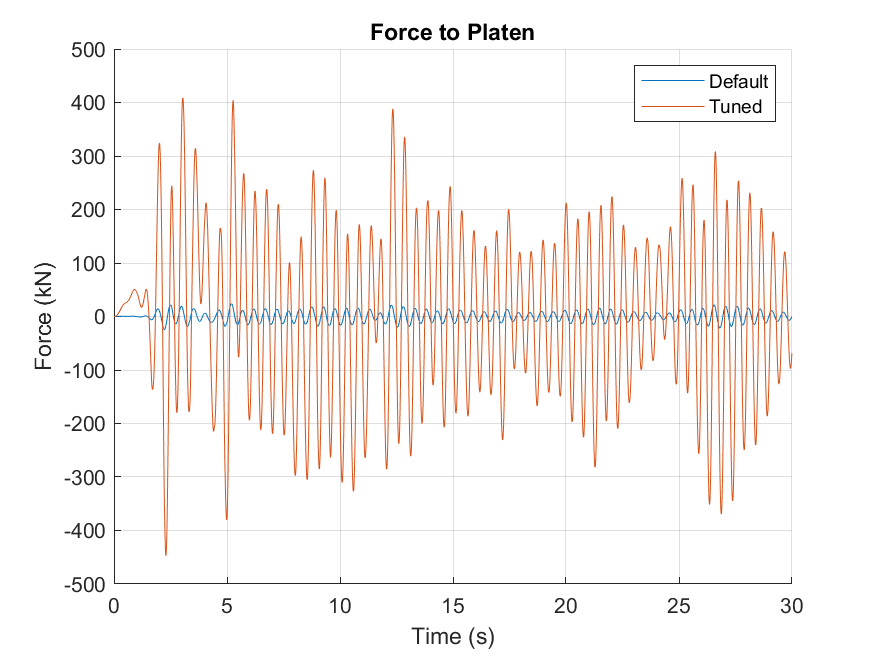
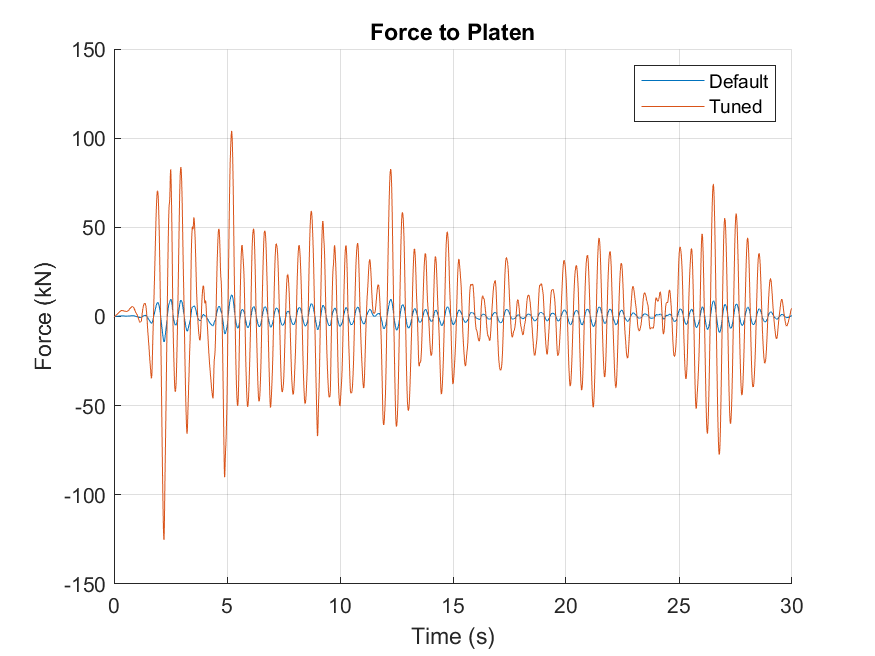
commit

diff --git a/Report/ss_matrix.tex b/Report/ss_matrix.tex
@@ -1,0 +1,73 @@
+\begin{align}
+\begin{bmatrix} 
+    \dot{x}_{sv} \\[6pt]
+    \dot{Q}_t \\[6pt]
+    \dot{P}_L \\[6pt]
+    \dot{F}_p \\[6pt]
+    \dot{x}_T \\[6pt]
+    \dot{x}_1 \\[6pt]
+    \dot{x}_2 \\[6pt]
+    \ddot{x}_T \\[6pt]
+    \ddot{x}_1 \\[6pt]
+    \ddot{x}_2 
+\end{bmatrix} =
+\begin{bmatrix}
+    -\frac{1}{T_{sv}} & 0 & 0 & 0 & 0 & 0 & 0 & 0 & 0 & 0\\[6pt]
+    -\frac{k_q}{T_{sv}} - \frac{k_c k_q k_q}{A^2} & 0 & \frac{k_c k_h}{A^2} & 0 & 0 & 0 & 0 & \frac{k_c k_h}{A} & 0 & 0 \\[6pt]
+    \frac{k_h k_q}{A^2} & 0 & -\frac{k_h}{A^2} & 0 & 0 & 0 & 0 & \frac{ k_h}{A} & 0 & 0 \\[6pt]
+    \frac{k_h k_q}{A} & 0 & -\frac{k_h}{A} & 0 & 0 & 0 & 0 & k_h & 0 & 0 \\[6pt]
+  0 &  0 & 0 & 0              & 0 & 0 & 0 & 0 & 0 &   \\[6pt]
+  0 &  0 & 0 & 0              & 0 & 0 & 0 & 0 & 0 & I &   \\[6pt]
+  0 &  0 & 0 & 0              & 0 & 0 & 0 & 0 & 0 &   \\[6pt]
+  0 &  0 & 0 & \frac{1}{m_T}  & 0 & 0 & 0 & 0 & 0 &   \\[6pt]
+  0 &  0 & 0 &              0 & 0 & 0 & -M^{-1}\cdot K  0 & 0 & 0 & -M^{-1}\cdot C  0 &   \\[6pt]
+  0 &  0 & 0 &              0 & 0 & 0 & 0 & 0 & 0 &   
+\end{bmatrix}
+\begin{bmatrix}
+    x_{sv} \\[6pt]
+    Q_t \\[6pt]
+    P_L \\[6pt]
+    F_p \\[6pt]
+    x_T \\[6pt]
+    x_1 \\[6pt]
+    x_2 \\[6pt]
+    \dot{x}_T \\[6pt]
+    \dot{x}_1 \\[6pt]
+    \dot{x}_2
+\end{bmatrix} +
+\begin{bmatrix}
+    \frac{k_q}{T_{sv}}  \\[6pt]
+    \frac{k_q}{T_{sv}}  \\[6pt]
+    0 \\[6pt]
+    0 \\[6pt]
+    0 \\[6pt]
+    0 \\[6pt]
+    0 \\[6pt]
+    0 \\[6pt]
+    0 \\[6pt]
+    0
+\end{bmatrix}
+\cdot i_{sv}
+\end{align}
+
+%%%%%%%%%%
+
+\begin{bmatrix} 
+\frac{-c_T - c_1 }{m_T} & \frac{ c_1 }{m_T}   & 0               \\ 
+\frac{c_1}{m_1}         &\frac{-c_1-c_2}{m_1} & \frac{c_2}{m_1} \\ 
+0                       & \frac{c_2}{m_2}     & \frac{-c_2}{m_2}
+\end{bmatrix}
+
+
+\begin{bmatrix}
+    -\frac{1}{T_{sv}} & 0 & 0 & 0 & 0 & 0 & 0 & 0 & 0 & 0\\[6pt]
+    -\frac{k_q}{T_{sv}} - \frac{k_c k_q k_q}{A^2} & 0 & \frac{k_c k_h}{A^2} & 0 & 0 & 0 & 0 & \frac{k_c k_h}{A} & 0 & 0 \\[6pt]
+    \frac{k_h k_q}{A^2} & 0 & -\frac{k_h}{A^2} & 0 & 0 & 0 & 0 & \frac{ k_h}{A} & 0 & 0 \\[6pt]
+    \frac{k_h k_q}{A} &  0 & -\frac{k_h}{A} & 0              & 0 & 0                & 0   & -k_h & 0               & 0 \\[6pt]
+                    0 &  0 &              0 & 0              & 0 & 0                & 0   & 1    & 0               & 0 \\[6pt]
+                    0 &  0 &              0 & 0              & 0 & 0                & 0   & 0    & 1               & 0 \\[6pt]
+                    0 &  0 &              0 & 0              & 0 & 0                & 0   & 0    & 0               & 1 \\[6pt]
+                    0 &  0 &              0 & \frac{1}{m_T} & \frac{-k_1}{m_T} & \frac{k_1}{m_T}     &  0              & \frac{-c_T - c_1 }{m_T} & \frac{ c_1 }{m_T}   & 0               \\ [6pt]
+                    0 &  0 &              0 & 0             & \frac{k_1}{m_1}  &\frac{-k_1-k_2}{m_1} & \frac{k_2}{m_1} & \frac{c_1}{m_1}         &\frac{-c_1-c_2}{m_1} & \frac{c_2}{m_1} \\ [6pt]
+                    0 &  0 &              0 & 0             &         0        & \frac{k_2}{m_2}     & \frac{-k_2}{m_2}& 0                       & \frac{c_2}{m_2}     & \frac{-c_2}{m_2}
+\end{bmatrix}             

diff --git a/uniaxial_table_model/simulation_and_plotting.m b/uniaxial_table_model/simulation_and_plotting.m
@@ -83,22 +83,26 @@ color3 = 'g';
 
 
 %% Structure parameters
-mass=2e3;
+
+mT=1.9751*1e3;       %Platen mass (mp=1.9751 t)
+cT=5.78*1e3;        %Total damping, actuator + platen (ct=5.78 kN s/m1)
+
+mass=1e3;
 
 % 1st mode
 m1 = mass; % kg
 f1 = 2; % Hz   % 1.5 < f1 < 4
-zeta1 = 0.02 ; % 2 < zeta1 < 10
+zeta1 = 0.05 ; % 2 < zeta1 < 10
 %2nd mode
 m2 = m1; % kg
 f2 = 10; % Hz % 6 < f2 < 10
-zeta2 = 0.05; % 5 < zeta2 < 25
+zeta2 = 0.1; % 5 < zeta2 < 25
 
 % Controller
 k_p=1.2993/1e-2; %SI units %Pgain (kp=1.2993 V/cm) 
 G_c = tf(k_p,1);
 
-[s,G_T,G_1,G_2,G_T1 ,G_21 ,G_svq,G_csv,G_x2_x1,G_x1_xT,G_xT_Fp,G_Fp_xref,G_xT_xref,G_x1_xref,G_x2_xT , G_Fp_isv  ]=Compute_TFs(G_c, m1 , m2 , f1, zeta1 , f2 , zeta2); %_and_StateSpace
+[s,G_T,G_1,G_2,G_T1 ,G_21 ,G_svq,G_csv,G_x2_x1,G_x1_xT,G_xT_Fp,G_Fp_xref,G_xT_xref,G_x1_xref,G_x2_xT , G_Fp_isv  ,c1,c2,k1,k2  ]=Compute_TFs(G_c, mT , cT , m1 , m2 , f1, zeta1 , f2 , zeta2); %_and_StateSpace
 
 %%  Load seismic signal and scale down if necessary
 dados = load('elcentro.txt');
@@ -140,7 +144,6 @@ f_i=0.1; %freq inicial
 f_n=30;  %freq final
 n_points = 1e2;
 f_vector = logspace( log10(f_i) , log10(f_n) , n_points);
-
 [picos_ddx_ground , picos_x_ground , media_picos_ddx_ground , media_picos_x_ground , filtered_picos_ddx_ground , filtered_picos_x_ground , filtered_media_picos_ddx_ground , filtered_media_picos_x_ground   ] = ResponseSpectre( dados , f_vector );
 
 
@@ -223,7 +226,7 @@ semilogx(f_vector, filtered_picos_x_table(:, 2),'-+', 'LineWidth' , 1, 'Color', 
 %% Use PID tuner app to generate a PID controller for the system
 tuner_opts = pidtuneOptions('DesignFocus','reference-tracking');
 G_c   = pidtune(G_Fp_isv*G_xT_Fp,'PIDF',20*2*pi,tuner_opts)
-[s,G_T,G_1,G_2,G_T1 ,G_21 ,G_svq,G_csv,G_x2_x1,G_x1_xT,G_xT_Fp,G_Fp_xref,G_xT_xref,G_x1_xref,G_x2_xT , G_Fp_isv ]=Compute_TFs(G_c,m1 , m2 , f1, zeta1 , f2 , zeta2);
+[s,G_T,G_1,G_2,G_T1 ,G_21 ,G_svq,G_csv,G_x2_x1,G_x1_xT,G_xT_Fp,G_Fp_xref,G_xT_xref,G_x1_xref,G_x2_xT , G_Fp_isv  ,c1,c2,k1,k2 ]=Compute_TFs(G_c, mT , cT , m1 , m2 , f1, zeta1 , f2 , zeta2);
 
 
 %%
@@ -304,6 +307,21 @@ mse_RS_x_table_tuned = mean(erro_RS_x_table_tuned.^2);
 
 
 %% State Space model
+
+% Define the Mass matrix M
+M = [mT, 0,   0;
+     0,   m1, 0;
+     0,   0,   m2];
+
+% Define the Damping matrix C
+C = [cT + c1, -c1,       0;
+     -c1,      c1 + c2, -c2;
+     0,        -c2,       c2];
+
+% Define the Stiffness matrix K
+K = [k1, -k1,  0;
+     -k1, k1 + k2, -k2;
+     0,   -k2,  k2];
 
 % [num, den] = tfdata(G_Fp_isv*G_xT_Fp, 'v')
 % [A,B,C,D] = tf2ss(num, den)

diff --git a/Report/eq_system.tex b/Report/eq_system.tex
@@ -1,9 +1,9 @@
 \begin{align}\label{eq_2dof_system}
     \left\{
     \begin{aligned}
-        m_T \ddot{x}_T &+ c_1 (\dot{x}_T - \dot{x}_1) + k_1 (x_T - x_1) = F_p \\
-        m_1 \ddot{x}_1 &+ c_1 (\dot{x}_1 - \dot{x}_T) + c_2 (\dot{x}_1 - \dot{x}_2) + k_1 (x_1 - x_T) + k_2 (x_1 - x_2) = 0 \\
-        m_2 \ddot{x}_2 &+ c_2 (\dot{x}_2 - \dot{x}_1) + k_2 (x_2 - x_1) = 0
+        m_T \cdot \ddot{x}_T &+ c_T \cdot \ddot{x}_T + c_1 (\cdot \ddot{x}_T - \cdot \ddot{x}_1) + k_1 (x_T - x_1) = F_p \\
+        m_1 \cdot \ddot{x}_1 &+ c_1 (\cdot \ddot{x}_1 - \cdot \ddot{x}_T) + c_2 (\cdot \ddot{x}_1 - \cdot \ddot{x}_2) + k_1 (x_1 - x_T) + k_2 (x_1 - x_2) = 0 \\
+        m_2 \cdot \ddot{x}_2 &+ c_2 (\cdot \ddot{x}_2 - \cdot \ddot{x}_1) + k_2 (x_2 - x_1) = 0
     \end{aligned}
     \right. 
     \Longleftrightarrow
@@ -15,9 +15,9 @@
     \Longleftrightarrow
     \left\{
     \begin{aligned}
-        &m_T \ddot{x}_T + (c_1 + c_2) \dot{x}_T + k_1 x_T - c_1 \dot{x}_1 - k_1 x_1 = F_p \\
-        &m_1 \ddot{x}_1 + (c_1 + c_2) \dot{x}_1 + (k_1 + k_2) x_1 - c_1 \dot{x}_T - c_2 \dot{x}_2 - k_1 x_T - k_2 x_2 = 0 \\
-        &m_2 \ddot{x}_2 + c_2 \dot{x}_2 + k_2 x_2 - c_2 \dot{x}_1 - k_2 x_1 = 0
+        &m_T \cdot \ddot{x}_T + (c_1 + c_2) \cdot \ddot{x}_T + k_1 x_T - c_1 \cdot \ddot{x}_1 - k_1 x_1 = F_p \\
+        &m_1 \cdot \ddot{x}_1 + (c_1 + c_2) \cdot \ddot{x}_1 + (k_1 + k_2) x_1 - c_1 \cdot \ddot{x}_T - c_2 \cdot \ddot{x}_2 - k_1 x_T - k_2 x_2 = 0 \\
+        &m_2 \cdot \ddot{x}_2 + c_2 \cdot \ddot{x}_2 + k_2 x_2 - c_2 \cdot \ddot{x}_1 - k_2 x_1 = 0
     \end{aligned}
     \right.
     \Longleftrightarrow
@@ -33,7 +33,7 @@
         0 & 0 & m_2
     \end{bmatrix}
     \begin{bmatrix}
-        \ddot{x}_T \\ \ddot{x}_1 \\ \ddot{x}_2
+        \cdot \ddot{x}_T \\ \cdot \ddot{x}_1 \\ \cdot \ddot{x}_2
     \end{bmatrix}
     +
     \begin{bmatrix}
@@ -42,7 +42,7 @@
         0 & -c_2 & c_2
     \end{bmatrix}
     \begin{bmatrix}
-        \dot{x}_T \\ \dot{x}_1 \\ \dot{x}_2
+        \cdot \ddot{x}_T \\ \cdot \ddot{x}_1 \\ \cdot \ddot{x}_2
     \end{bmatrix}
     +
     \begin{bmatrix}
